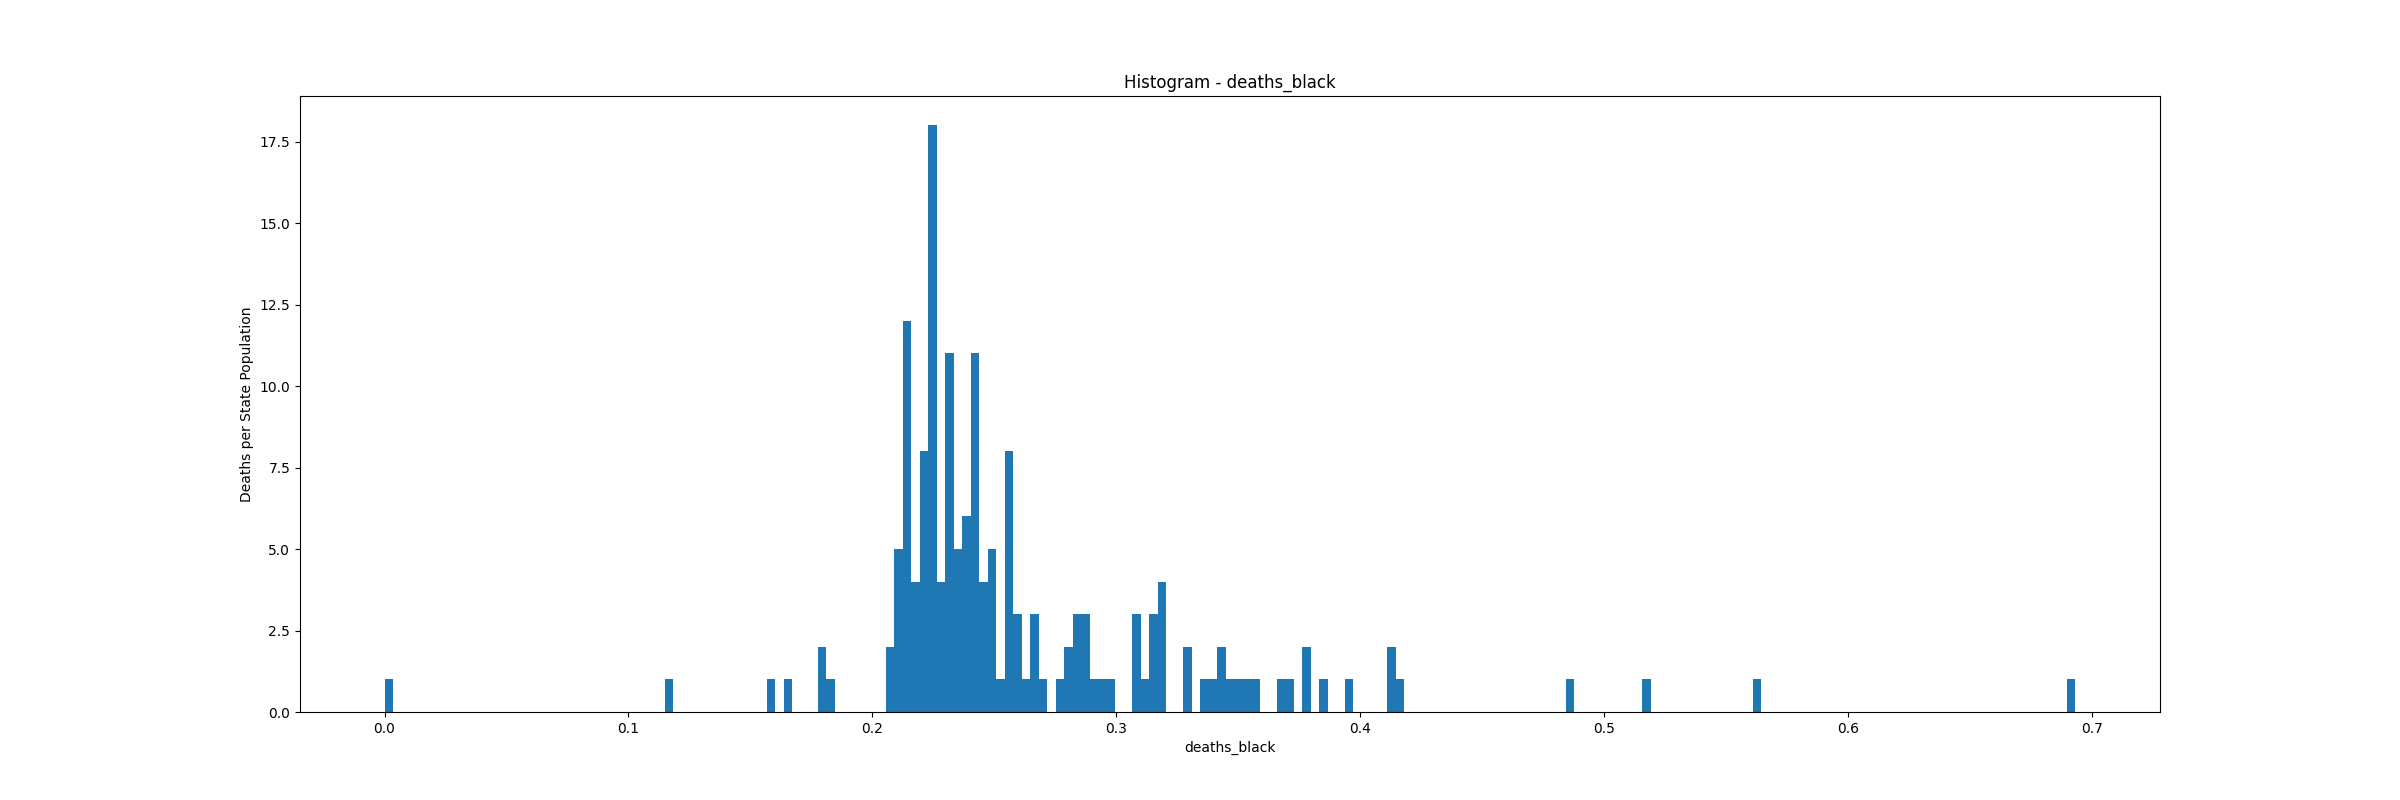
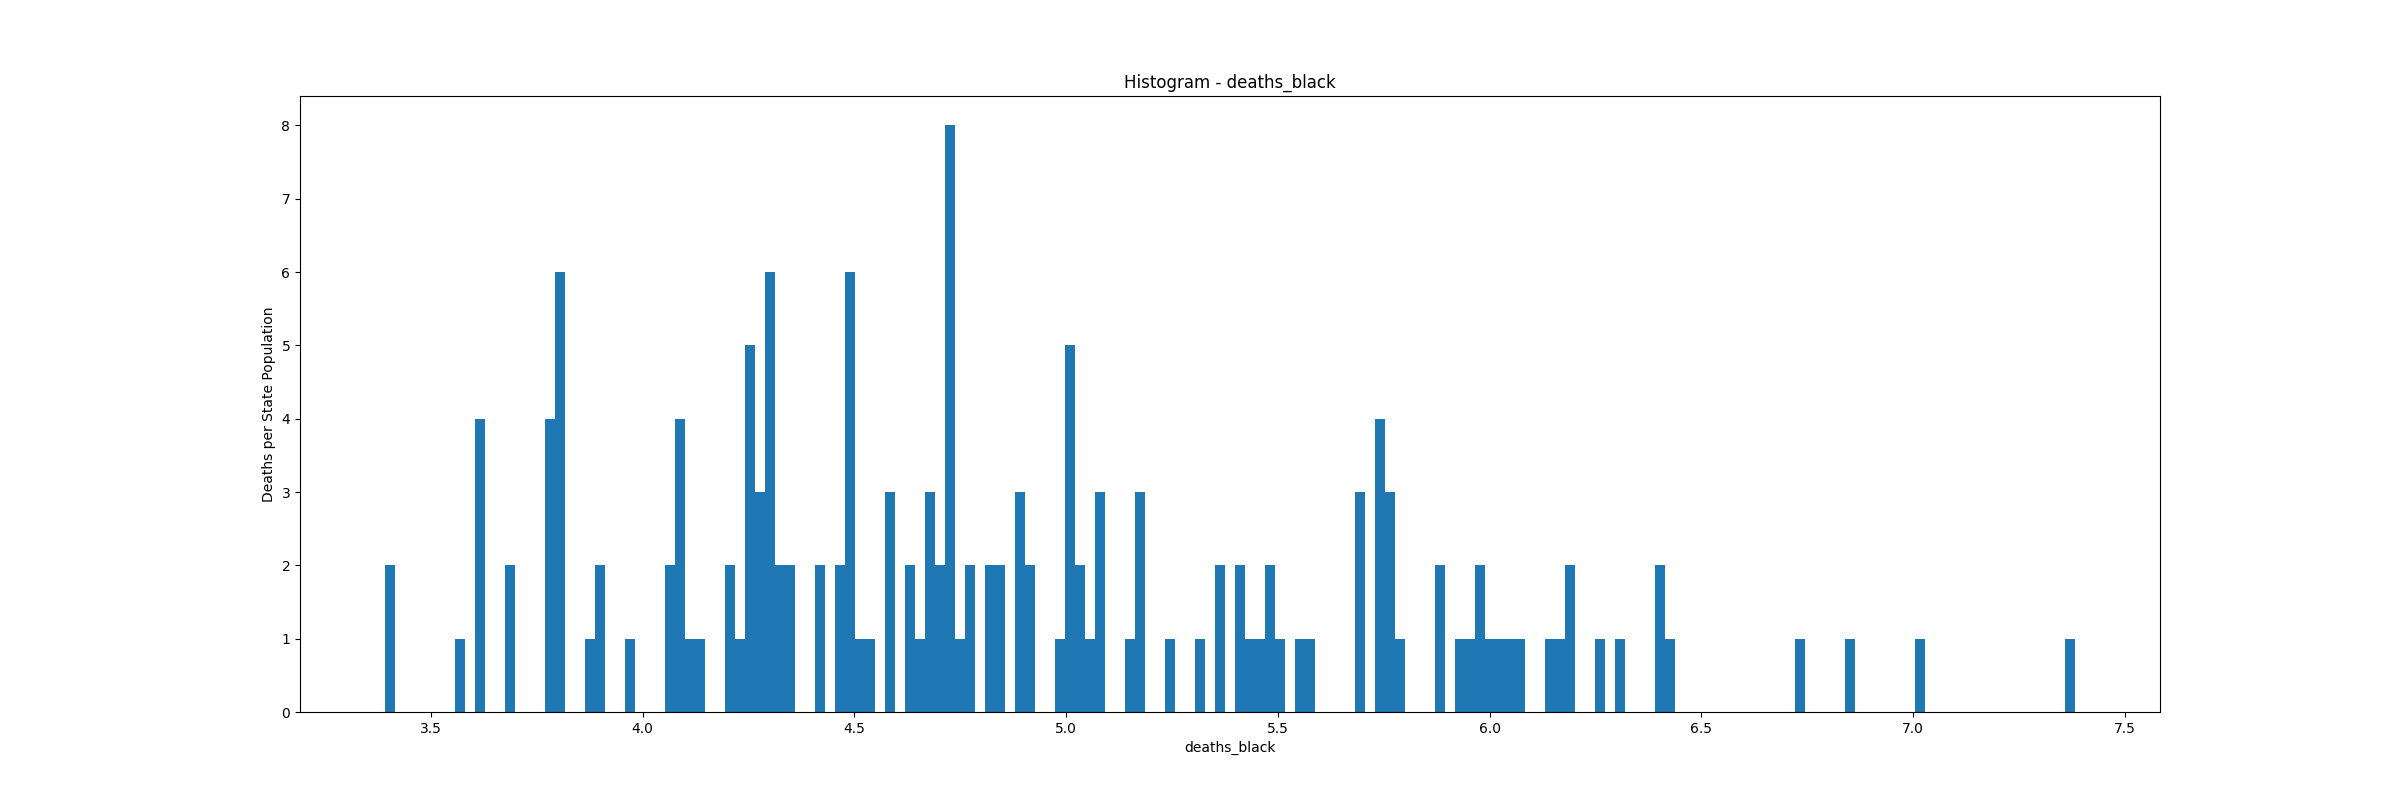
Fixed inference test

Changed region(s): [[0.1562, 0.1562, 0.8125, 0.9062], [0.0938, 0.375, 0.125, 0.625], [0.8438, 0.8125, 0.875, 0.8438]]

diff --git a/04-inference.py b/04-inference.py
@@ -92,6 +92,7 @@ def clean_for_race_inference(covid_df, socioecon_df):
     covid_df = covid_df[['date', 'state']]
     # Merge the dataframes by their index which has not changed
     covid_df = pd.merge(covid_df, daily_covid, left_index=True, right_index=True).reset_index(drop=True)
+    # print(covid_df.describe())
 
     return covid_df
 
@@ -132,7 +133,7 @@ def save_sample_population_distribution(covid_df):
     covid_df = covid_df.drop(columns=['date', 'state'])
     for col_name in list(covid_df.columns):
         plt.figure(figsize=(24, 8))
-        plt.hist(covid_df[col_name].dropna().reset_index(drop=True), bins=len(covid_df.index))
+        plt.hist(covid_df[col_name].dropna().reset_index(drop=True), bins=len(covid_df.index) - 30)
         plt.title("Histogram - " + col_name)
         plt.xlabel(col_name)
         plt.ylabel("Deaths per State Population")
@@ -142,13 +143,9 @@ def save_sample_population_distribution(covid_df):
 
 def sample_population_adjustments(covid_df):
     covid_df = covid_df.replace(0, np.NaN)
+    # print(covid_df.describe())
     # Lets count the number of non-nan values so we can get the new sample numbers
-    print(covid_df['deaths_white'].count())
-    print(covid_df['deaths_black'].count())
-    print(covid_df['deaths_ethnicity_hispanic'].count())
-    print(covid_df['deaths_asian'].count())
-    print(covid_df['deaths_aian'].count())
-    print(covid_df['deaths_nhpi'].count())
+    print(covid_df.describe())
     """
     You can see that deaths_aian and deaths_nhpi have many days where 0 deaths are recorded and
     is beyond the 1.5 ratio of deaths_white, deaths_black, deaths_ethnicity_hispanic and deaths_asian.
@@ -166,12 +163,22 @@ def transform_data(covid_df):
     """
     scale_df = covid_df.drop(columns=['date', 'state'])
     # Normalize the data since we cannot log or sqrt negative values
-    scale_df = (scale_df - scale_df.min()) / (scale_df.max() - scale_df.min())
+    """
+    Note: Tried some normalization techniques. This does not make sense to do since it changes
+    the relative means between categories.
+    """
+    # scale_df = (scale_df - scale_df.min()) / (scale_df.max() - scale_df.min())
 
-    scale_df = np.log(scale_df + 1)
+    """
+    Scale by some constant factor so that we can transform negative values. Alternatively, we can 
+    simply np.log(scale_df) without scaling and it will handle/ignore negative values. Either way, 
+    it does not impact the final result.
+    """
+    # Runtime warning is from NaN which is fine
+    scale_df = scale_df * 10000000
+    scale_df = np.log(scale_df)
 
     covid_df[['deaths_white', 'deaths_black', 'deaths_ethnicity_hispanic', 'deaths_asian']] = scale_df
-    print(covid_df)
     return covid_df
 
 
@@ -229,11 +236,23 @@ def main():
     save_sample_population_distribution(covid_df)
 
     """
-    We now have a distribution that looks much closer to normal, and has equal variance. It is still skewed to
-    the right though. An obvious problem is the 0 deaths that we removed. It looks like a small number of days
-    do have 0 deaths, and the remaining are just days that are not reported. We could try and interpolate 
-    these missing values, but since all distributions are missing them, it should not greatly impact the ANOVA
-    result. Given than there are ~170 sampples, by the CLT, this should be good enough to conduct the test.
+    We now have a distribution that looks much closer to normal, and has equal variance. It is still not completely
+    normal:
+
+    deaths_white
+    Normal pvalue: 0.0008819071811236714
+
+    deaths_black
+    Normal pvalue: 0.023506454327748054
+
+    deaths_ethnicity_hispanic
+    Normal pvalue: 0.6489008702274581
+
+    deaths_asian
+    Normal pvalue: 0.008854780559059496 
+
+    But it is much better than the extreme negative negative p-values (non-normal) than before the 
+    transformation. Given than there are ~170 sampples, by the CLT, this should be good enough to conduct the test.
     """
 
     test_anova(covid_df)
